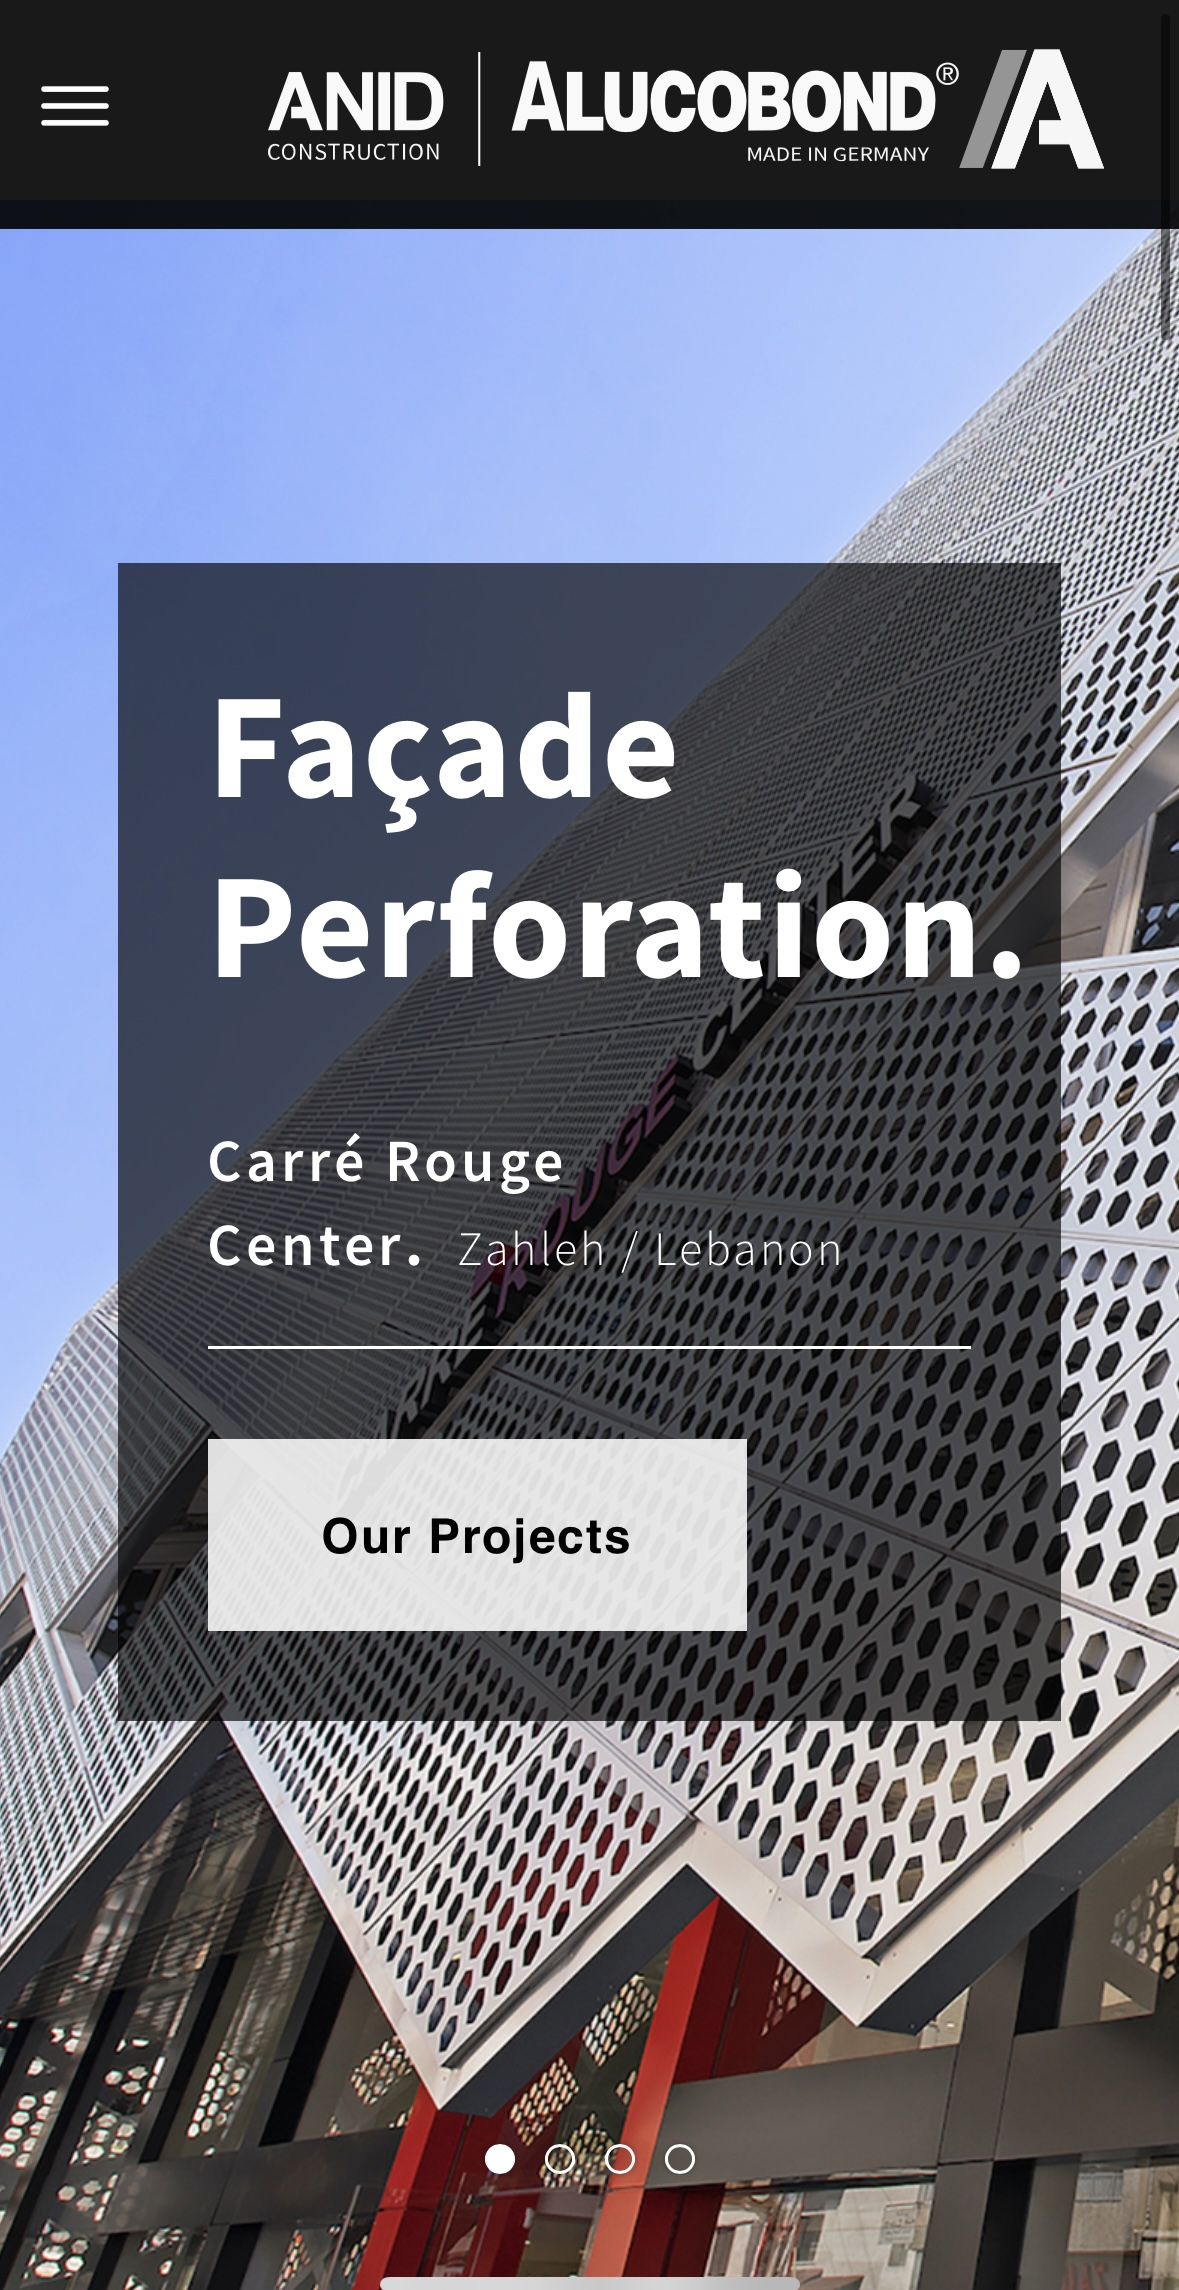
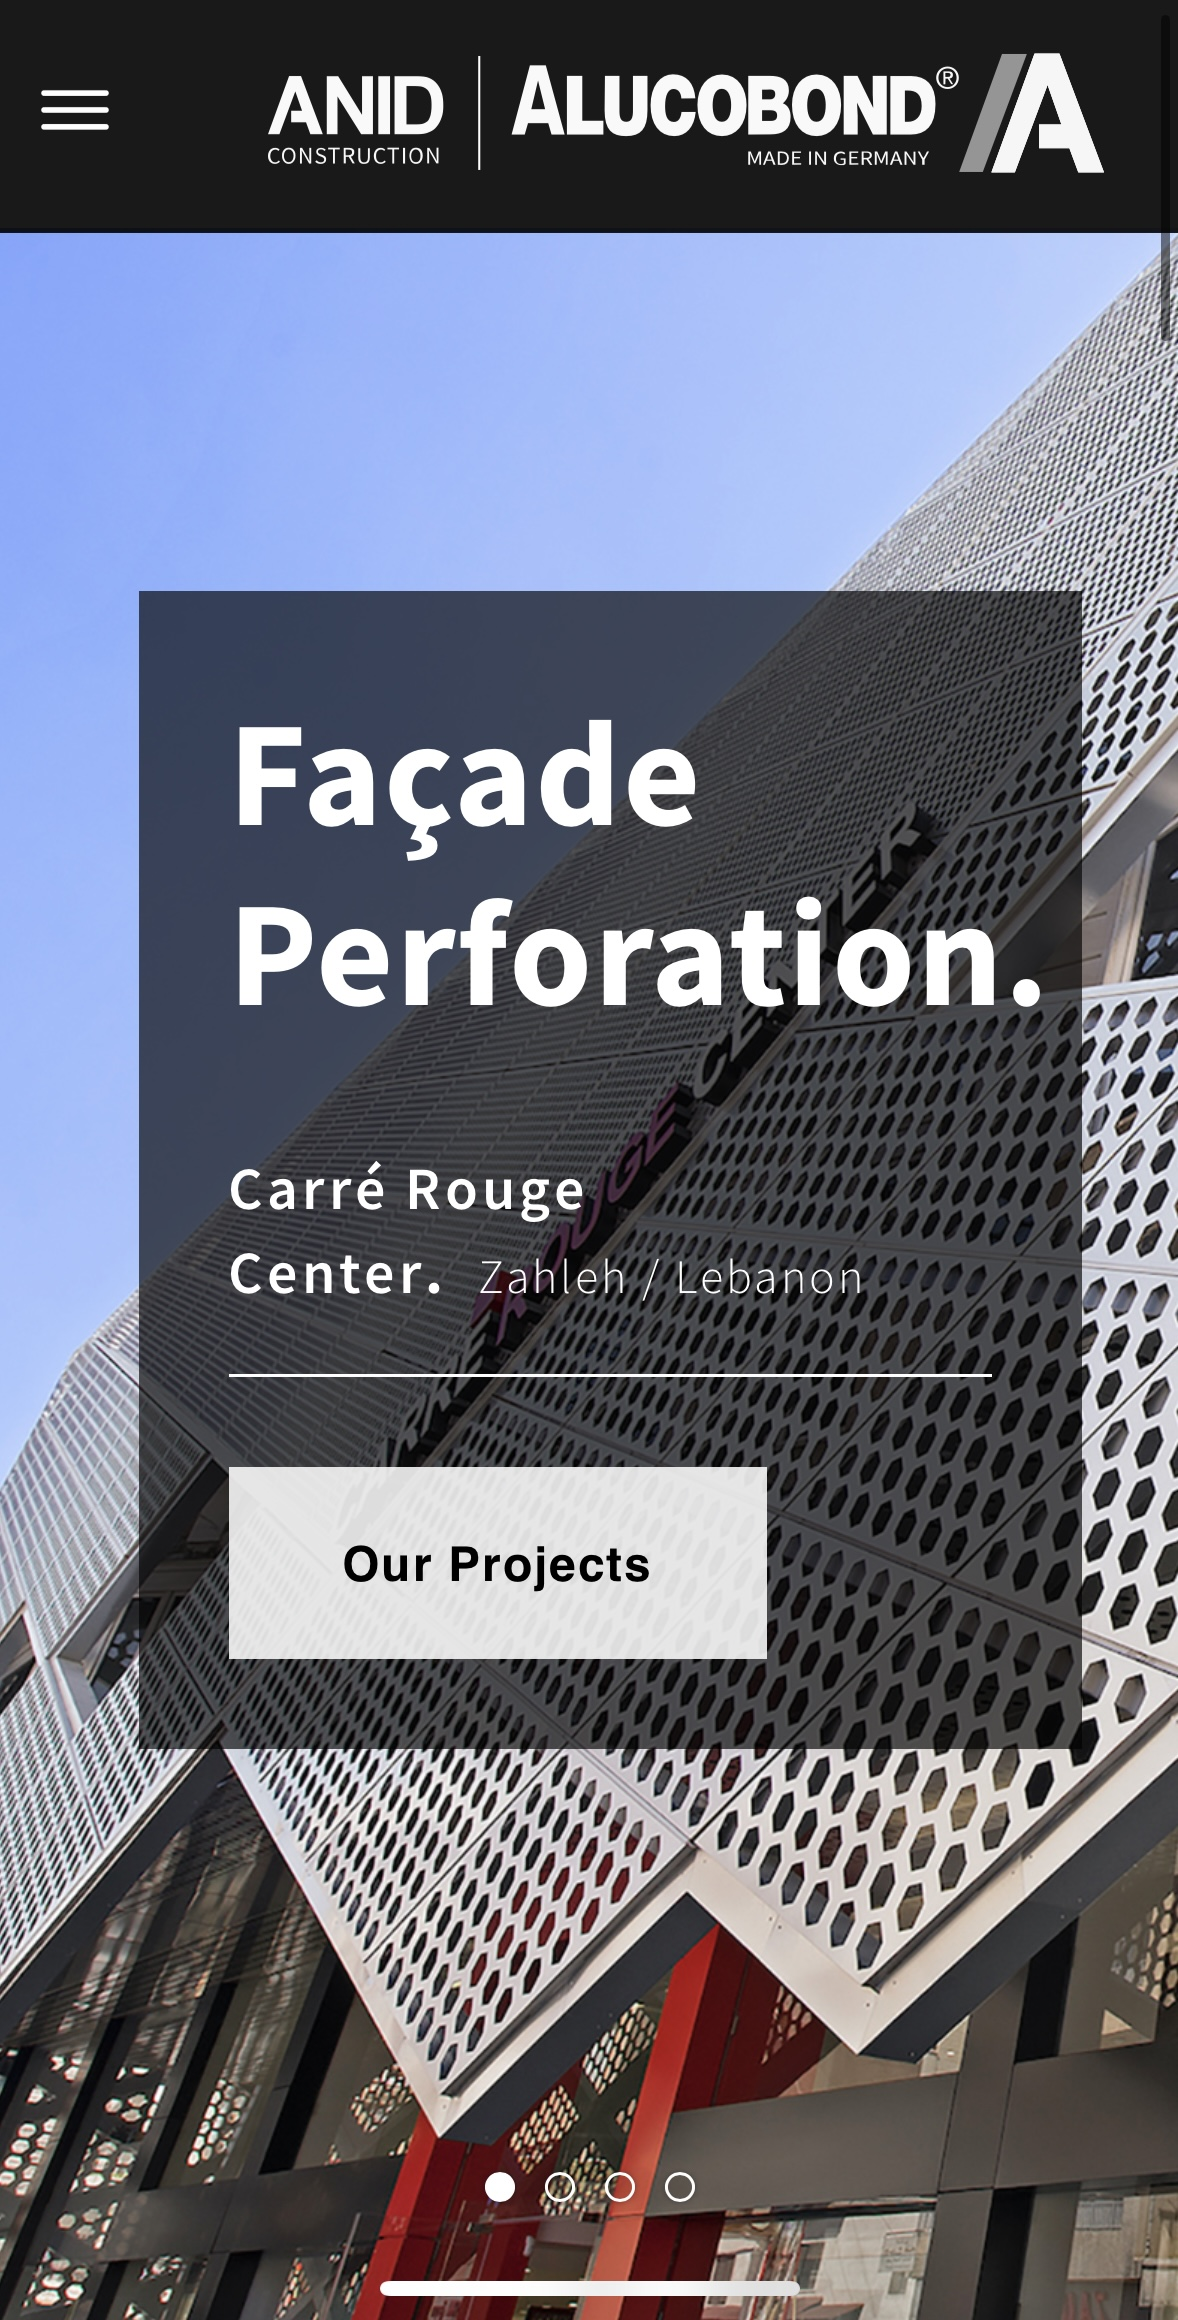
projects

diff --git a/src/components/Projects/Projects.css b/src/components/Projects/Projects.css
@@ -4,49 +4,6 @@
 .projects-headline {
   position: relative;
 }
-.projects-wrap {
-  padding: 0 2rem;
-}
-.project-detail {
-  display: flex;
-  flex-direction: column;
-  gap: 2rem;
-}
-.project-views {
-  width: 100%;
-  height: auto;
-  display: flex;
-  align-items: flex-end;
-  gap: 1rem;
-  position: relative;
-}
-.project-container {
-  border-radius: 2.5rem;
-  background-color: #fff;
-  box-shadow: 5px 5px 5px rgba(0, 0, 0, 0.133);
-}
-.project-container img {
-  border-radius: 0 0 1.5rem 1.5rem;
-}
-.project-desktop-container {
-  padding: 5rem 1rem 1rem 1rem;
-  width: 80%;
-  z-index: 2;
-}
-
-.project-desktop-container img {
-  width: 100%;
-}
-.project-phone-container {
-  position: absolute;
-  right: 3rem;
-  padding: 4ch 0.5rem 0.5rem 0.5rem;
-  width: 23%;
-}
-.project-phone-container img {
-  width: 100%;
-}
-
 .projects-headline::before {
   content: "";
   background-image: url("/public/assets/icons/cloud-icon.svg");
@@ -70,8 +27,57 @@
   height: 2.5em;
   width: 2.5em;
 }
+.projects-wrap {
+  padding: 2rem 0 2rem 3rem;
+}
+.project-detail {
+  display: flex;
+  flex-direction: column;
+}
+.project-views {
+  width: 100%;
+  height: auto;
+  display: flex;
+  align-items: flex-end;
+  position: relative;
+}
+.project-container {
+  border-radius: 2.5rem;
+  background-color: #fff;
+  box-shadow: 5px 5px 5px rgba(0, 0, 0, 0.133);
+}
+.project-container img {
+  border-radius: 0 0 1.5rem 1.5rem;
+}
+.project-desktop-container {
+  padding: 5rem 0.8rem 0.8rem 0.8rem;
+  width: 80%;
+  z-index: 2;
+}
+
+.project-desktop-container img {
+  width: 100%;
+}
+.project-phone-container {
+  position: absolute;
+  right: 3rem;
+  padding: 4ch 0.5rem 0.5rem 0.5rem;
+  width: 23%;
+}
+.project-phone-container img {
+  width: 100%;
+}
+
 .project-text {
-  padding: 1rem 3rem;
+  display: flex;
+  flex-direction: column;
+
+  background-color: #fff;
+  width: 93%;
+  margin-top: -3rem;
+  margin-bottom: 10rem;
+  border-radius: 0 2rem;
+  padding: 7rem 4rem;
 }
 .project-text div {
   display: flex;
@@ -79,6 +85,7 @@
   gap: 1rem;
   margin-bottom: 1rem;
 }
+
 .project-text p {
   padding-left: 3rem;
   margin-bottom: 1rem;
@@ -88,13 +95,10 @@
 }
 .arrow-right {
   height: 4rem;
+  margin-bottom: 2rem;
 }
-.project-text button {
-  margin-top: 2rem;
-  background-color: black;
-
-  color: #fff;
-  border: 1.5px solid black;
+.project-text a {
+  margin-left: 3rem;
 }
 
 @media screen and (max-width: 650px) {
@@ -103,5 +107,9 @@
     margin-left: 0.5rem;
     height: 2em;
     width: 2em;
+  }
+  .projects-wrap {
+    padding: 1rem 0 1rem 2rem;
+    margin-right: -0.5rem;
   }
 }

diff --git a/src/components/Projects/Projects.js b/src/components/Projects/Projects.js
@@ -1,6 +1,7 @@
 import React from "react";
 import { motion } from "framer-motion";
 import "./Projects.css";
+import "../Card/Card.css";
 
 const swipe = {
   initial: { x: -10, zIndex: 1 },
@@ -22,13 +23,13 @@ const Projects = ({ projectsData }) => {
                   className="project-views"
                 >
                   <div className="project-container project-desktop-container">
-                    <img src="/assets/projects/aa-website.jpg" alt="" />
+                    <img src={project.desktop} alt="" />
                   </div>
                   <motion.div
                     variants={swipe}
                     className="project-container project-phone-container"
                   >
-                    <img src="/assets/projects/aa-website-ph.jpg" alt="" />
+                    <img src={project.phone} alt="" />
                   </motion.div>
                 </motion.div>
                 <div className="project-text">
@@ -38,18 +39,26 @@ const Projects = ({ projectsData }) => {
                       src="/assets/icons/arrow-right.svg"
                       alt=""
                     />
-                    <h1> Web Design & Development</h1>
+                    <h1 className="card-slogan"> {project.project_name}</h1>
                   </div>
 
                   <p className="bodytext">
-                    <b>UI | UX design:</b> Art direction / logo design /image
-                    refinement
+                    <b className="card-skills">UI | UX design:</b>including{" "}
+                    {project.design}
                   </p>
-                  <p className="bodytext">
-                    <b>Front-end dev:</b> CSS React.js
+                  <p className="bodytext ">
+                    <b className="card-skills">Developement tools:</b>
+                    {project.coding}
                   </p>
 
-                  <button className="btn">Visit Website</button>
+                  <a
+                    target="_blank"
+                    rel="noreferrer"
+                    href={project.url}
+                    className="btn form-btn"
+                  >
+                    Visit Website
+                  </a>
                 </div>
               </div>
             );

diff --git a/src/components/data/projectsData.js b/src/components/data/projectsData.js
@@ -1,20 +1,29 @@
 export const projectsData = [
   {
     _id: 11,
-    name: "kareen Abdelnour | art",
-    url: "https://kareenabdelnour.com/",
-    thumbnail: "/assets/projects/ka-website.png",
-  },
-  {
-    _id: 12,
-    name: "CHIRINE SAYEGH | Architect",
-    url: "https://chirinesayegh.com/",
-    thumbnail: "/assets/projects/cs-website.png",
-  },
-  {
-    _id: 12,
-    name: "ANID | ALUCOBOND",
+    project_name: "ANID | ALUCOBOND®",
     url: "https://anidconstruction.com/",
-    thumbnail: "/assets/projects/aa-website.png",
+    desktop: "/assets/projects/aa-website.jpg",
+    phone: "/assets/projects/aa-website-ph.jpg",
+    design: "Art direction / Logo design / Image refinement",
+    coding: "HTML, CSS & React.js",
+  },
+  {
+    _id: 12,
+    project_name: "CHIRINE SAYEGH | Architect",
+    url: "https://chirinesayegh.com/",
+    desktop: "/assets/projects/cs-website.jpg",
+    phone: "/assets/projects/cs-website-ph.jpg",
+    design: "Art direction / Logo design / Image refinement",
+    coding: "HTML, & React.js",
+  },
+  {
+    _id: 13,
+    project_name: "Kareen Abdelnour | art",
+    url: "https://kareenabdelnour.com/",
+    desktop: "/assets/projects/ka-website.jpg",
+    phone: "/assets/projects/ka-website-ph.jpg",
+    design: "Art direction / Logo design / Image refinement",
+    coding: "HTML, CSS & JavaScript",
   },
 ];

diff --git a/src/components/HeroSection/HeroSection.css b/src/components/HeroSection/HeroSection.css
@@ -81,8 +81,8 @@
   border: 1.5px solid black;
 }
 .btn-cta:nth-child(1):hover {
-  background-color: var(--yellow);
-  border: 1.5px solid var(--yellow);
+  background-color: var(--light-grey);
+  border: 1.5px solid var(--light-grey);
   color: black;
 }
 
@@ -91,8 +91,8 @@
   background-color: transparent;
 }
 .btn-cta:nth-child(2):hover {
-  background-color: var(--yellow);
-  border: 1.5px solid var(--yellow);
+  background-color: var(--light-grey);
+  border: 1.5px solid var(--light-grey);
 }
 
 /* developement section */

diff --git a/src/components/Skills/Skills.css b/src/components/Skills/Skills.css
@@ -42,8 +42,8 @@
 .skills-btn {
   width: 100%;
   justify-self: center;
-  background-color: var(--light-grey);
-
+  /* background-color: var(--light-grey); */
+  background-color: transparent;
   border: 1px solid black;
   border-radius: 0 2rem;
   box-shadow: -0.8rem 0 var(--yellow);

diff --git a/src/components/Footer/Footer.css b/src/components/Footer/Footer.css
@@ -27,13 +27,13 @@
   gap: 3rem;
 }
 .social-media-icon {
-  width: 2.5rem;
-  height: 2.5rem;
+  width: 2rem;
+  height: 2rem;
   margin-bottom: 0.5rem;
 }
 .social-media-links {
   display: flex;
-  gap: 0.5rem;
+  gap: 1rem;
 }
 .footer-signature {
   background-color: var(--yellow);
